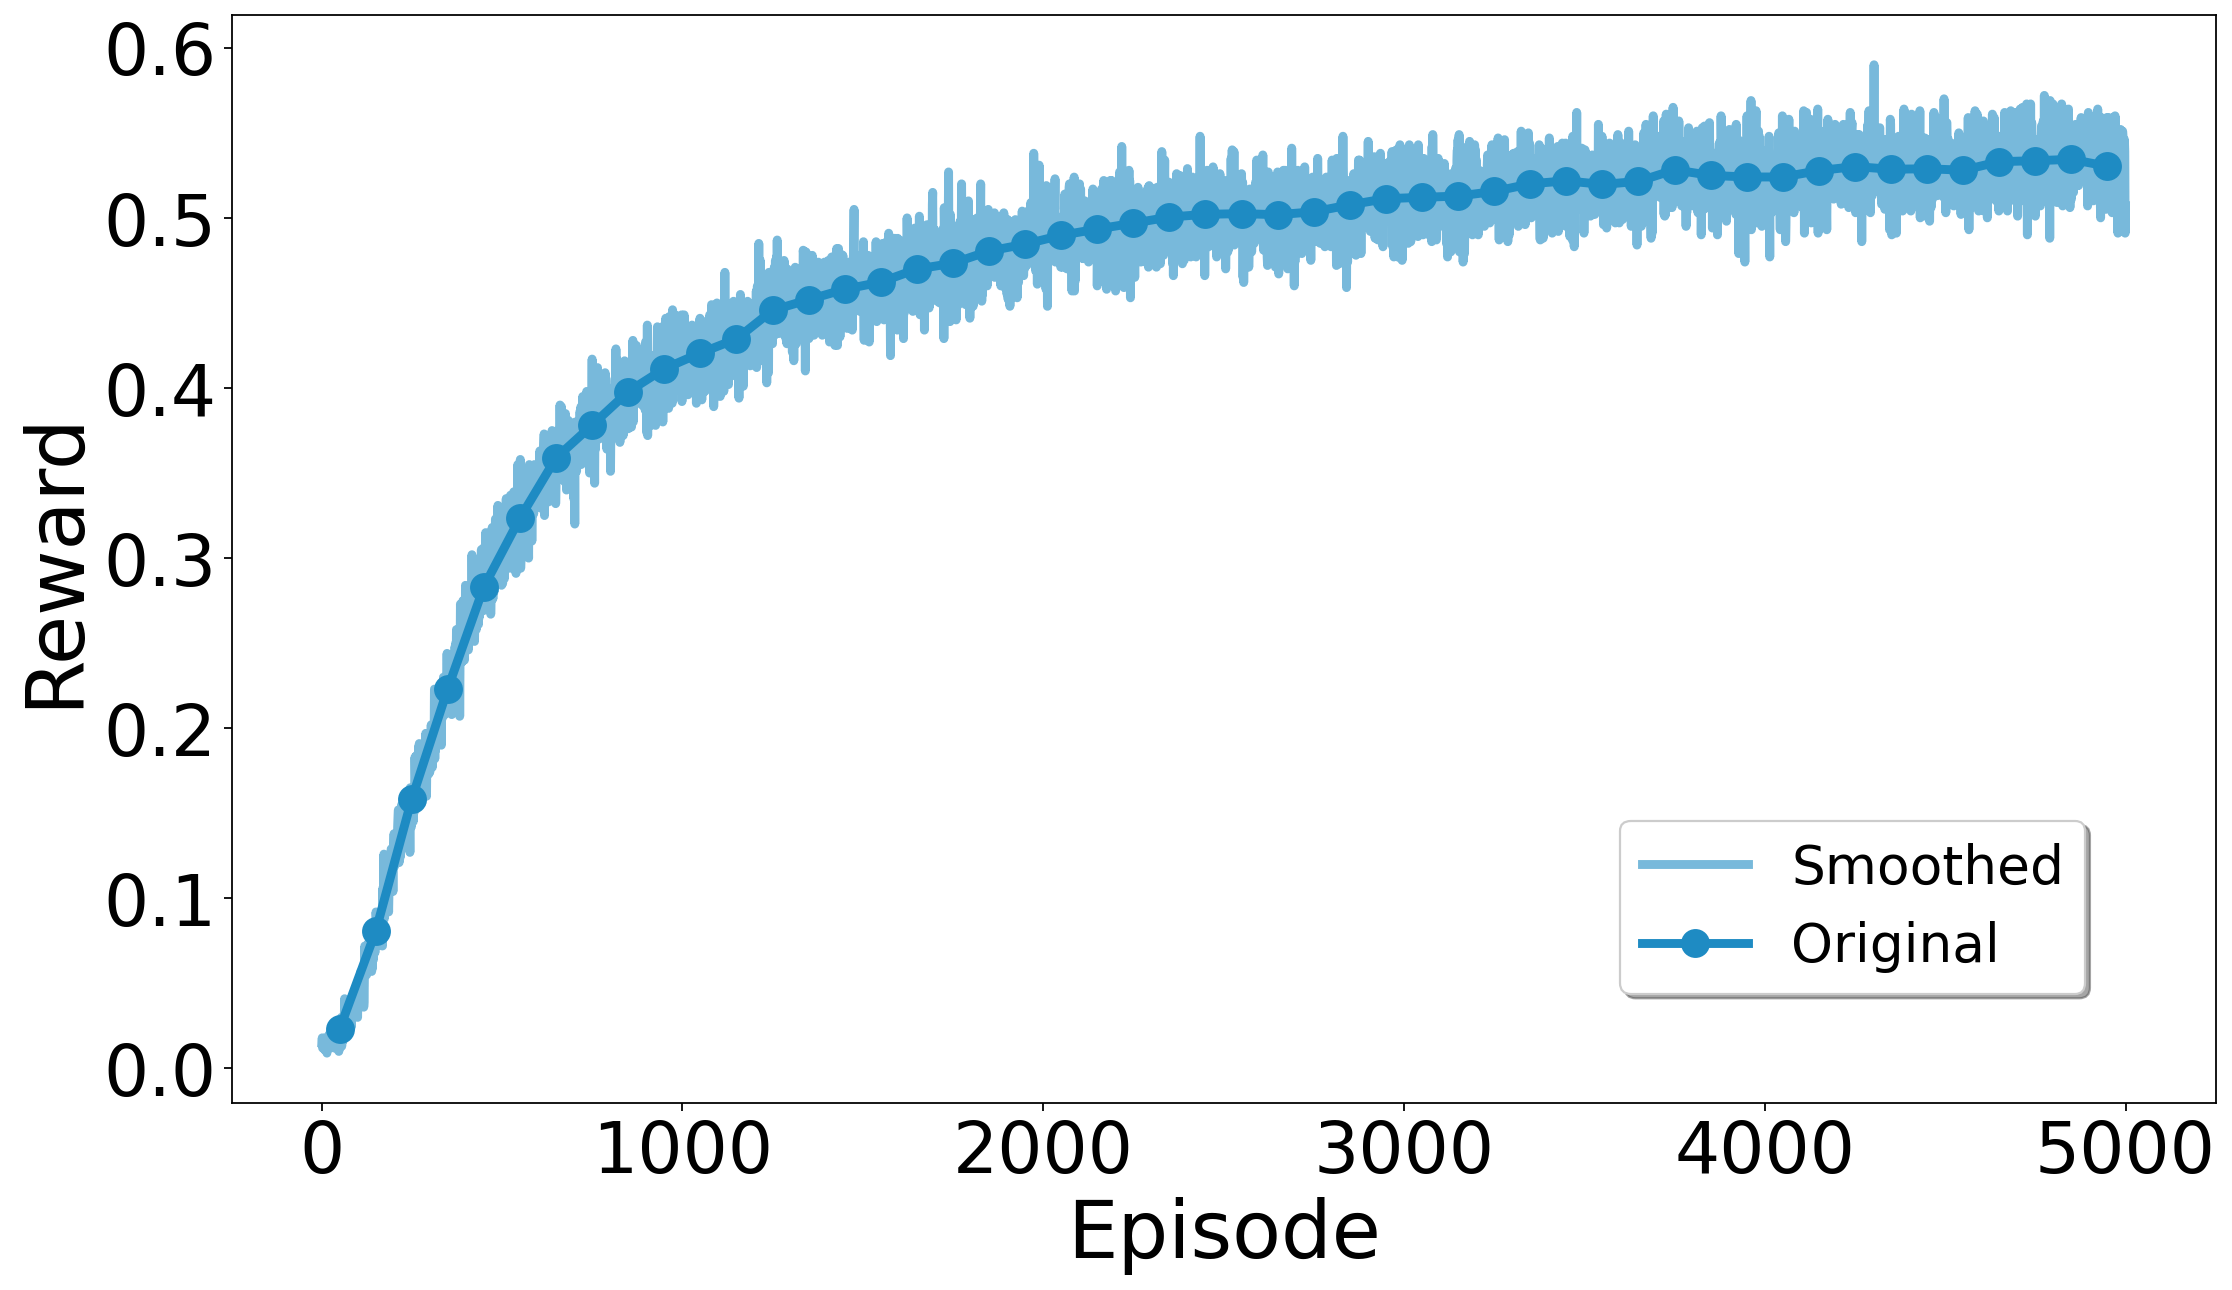
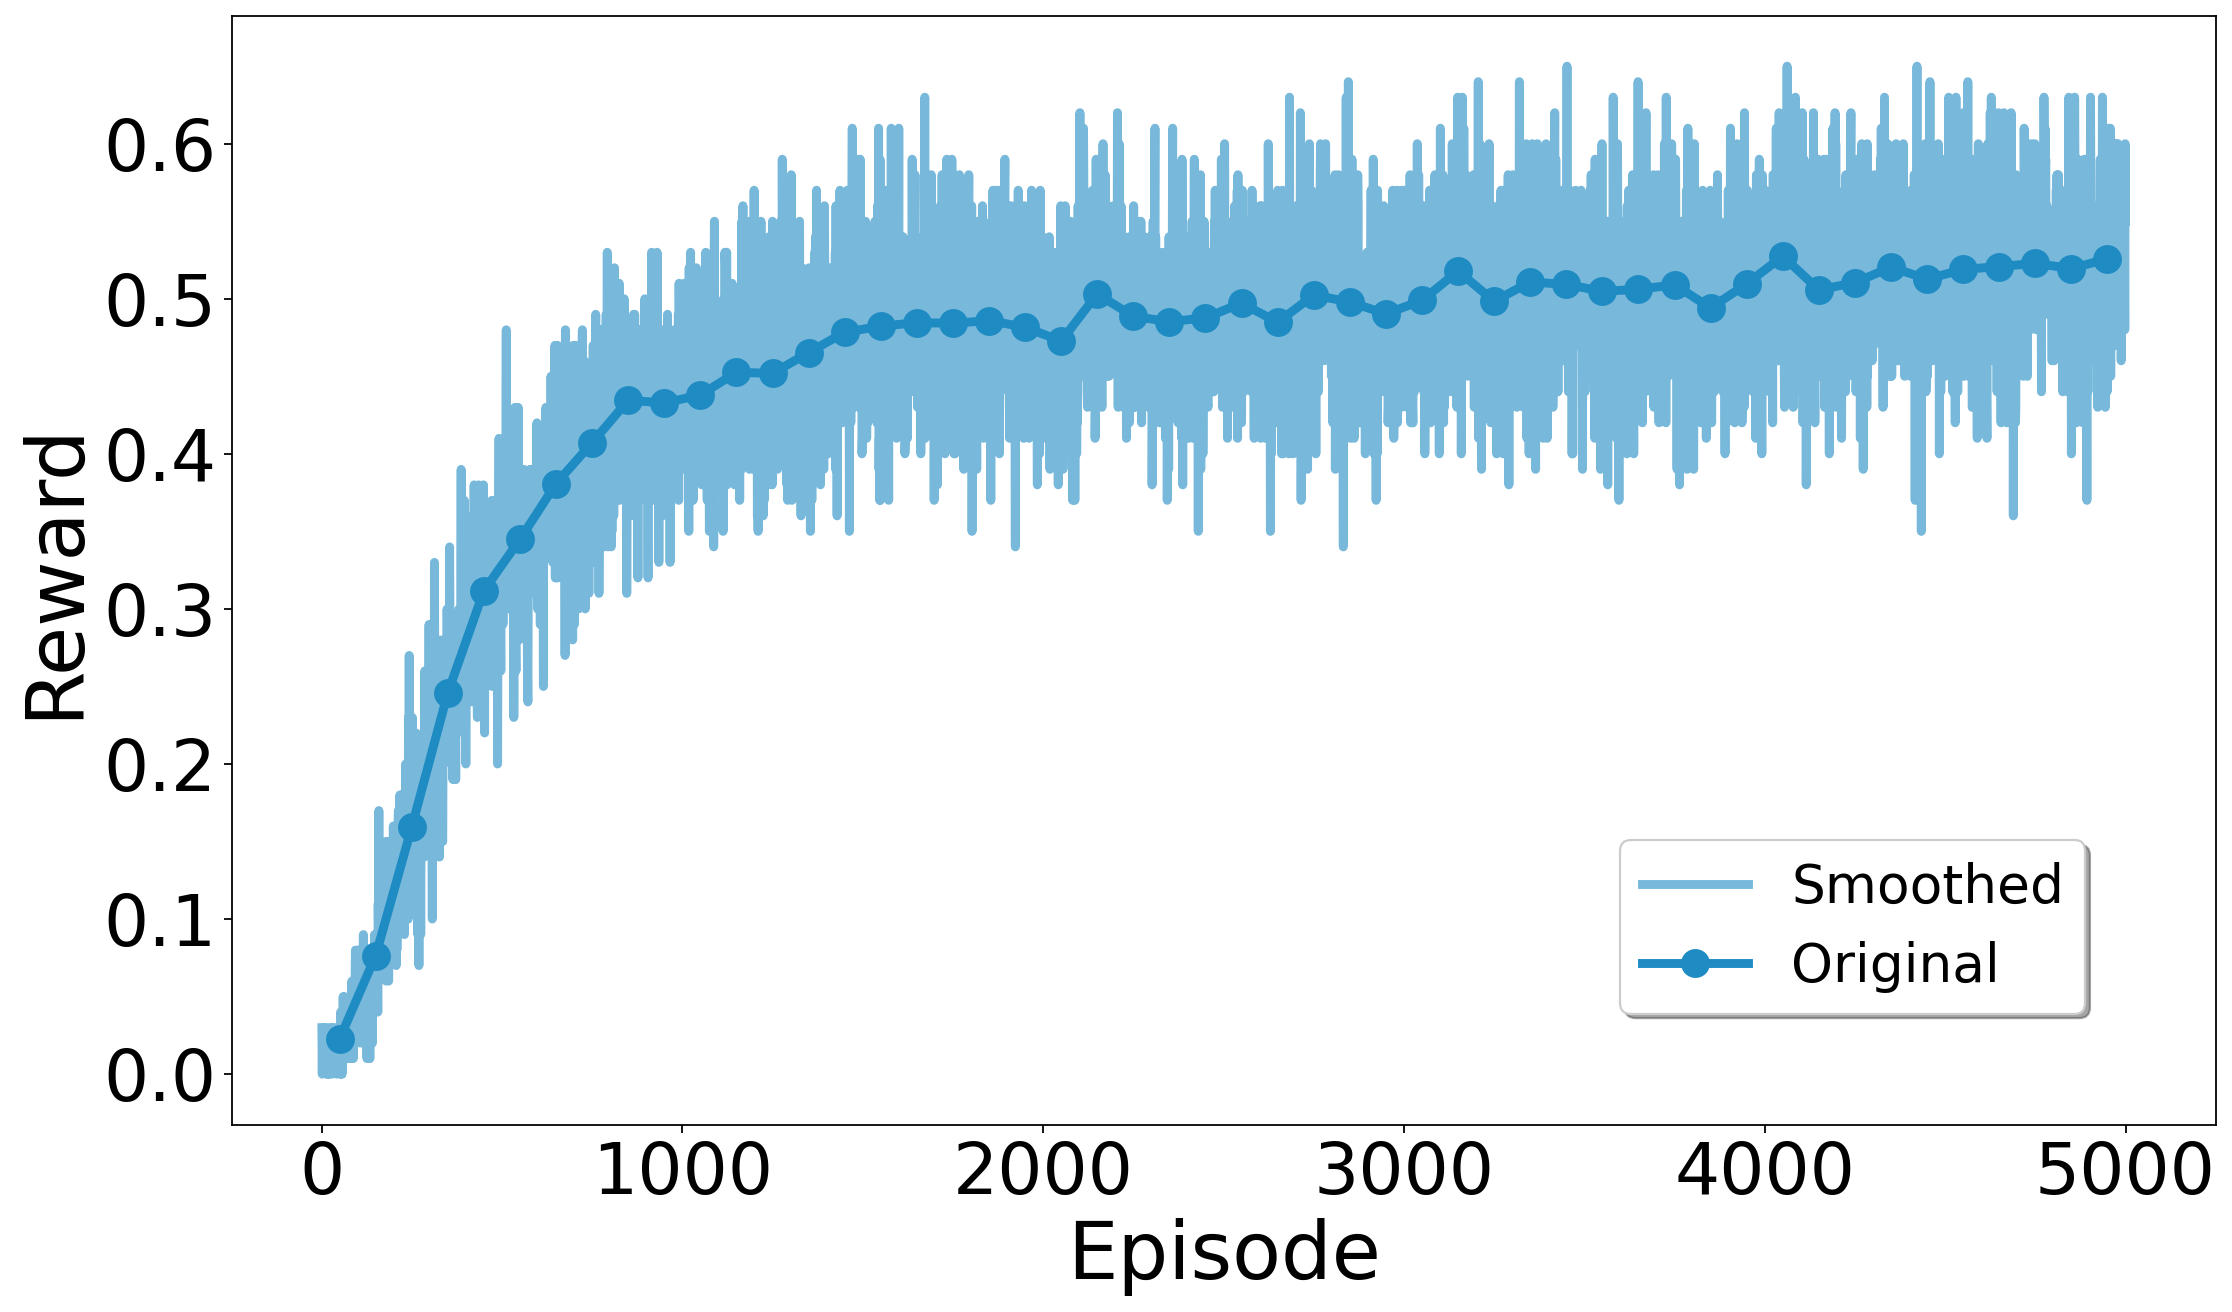
Adds README.

diff --git a/plot.py b/plot.py
@@ -1,0 +1,67 @@
+import argparse
+import pickle
+from pathlib import Path
+
+import matplotlib
+import matplotlib.pyplot as plt
+import numpy as np
+
+
+matplotlib.rcParams['pdf.fonttype'] = 42
+matplotlib.rcParams['ps.fonttype'] = 42
+
+
+COLOR = "#1e8bc3"
+MARK_EVERY = (0, 1)
+MARKER_SIZE = 12.0
+LINE_WIDTH = 4.0
+FONT_SIZE = 36.0
+FONT_SIZE_TICK = 32.0
+FIG_SIZE = (16,9)
+DPI = 160
+GRID = False
+FONT_WEIGHT = "normal"
+SMOOTH_INTERVAL = 100
+
+
+# For parsing command line arguments
+parser = argparse.ArgumentParser()
+parser.add_argument('experiment_name', type=str)
+args = parser.parse_args()
+
+
+# Load the results
+results = None
+path = "./results/{:s}/results.pkl".format(args.experiment_name)
+with open(path, "rb") as f:
+    results = pickle.load(f)
+
+
+episode_reward_2darray = results["episode_reward_2darray"]
+print("episode_reward_2darray.shape:", episode_reward_2darray.shape)
+mean_episode_reward_array = np.mean(episode_reward_2darray, axis=0)
+smooth_mean_episode_reward_array = np.mean(mean_episode_reward_array.reshape(-1, SMOOTH_INTERVAL), axis=1)
+
+
+# Plot the reward list
+Path("./results/{:s}/figures".format(args.experiment_name)).mkdir(parents=True, exist_ok=True)
+fig, ax = plt.subplots(figsize=FIG_SIZE, dpi=DPI)
+plt.setp(ax.get_xticklabels(), fontsize=FONT_SIZE_TICK, fontweight=FONT_WEIGHT)
+plt.setp(ax.get_yticklabels(), fontsize=FONT_SIZE_TICK, fontweight=FONT_WEIGHT)
+ax.yaxis.get_offset_text().set_fontsize(20)
+ax.yaxis.get_offset_text().set_fontweight(FONT_WEIGHT)
+ax.xaxis.get_offset_text().set_fontsize(20)
+ax.xaxis.get_offset_text().set_fontweight(FONT_WEIGHT)
+# ax.set_yticks([ -0.2, 0.0, 0.2 ])
+# plt.locator_params(axis='x', nbins=3)
+ax.plot(range(1, len(mean_episode_reward_array) + 1), mean_episode_reward_array, linestyle='-', color=COLOR, alpha=0.6, label="Smoothed", markersize=MARKER_SIZE, linewidth=LINE_WIDTH)
+ax.plot([ int((smooth_index + 0.5) * SMOOTH_INTERVAL) for smooth_index in range(len(smooth_mean_episode_reward_array)) ], smooth_mean_episode_reward_array, 'o', markevery=MARK_EVERY, linestyle='-', color=COLOR, label="Original", markersize=MARKER_SIZE, linewidth=LINE_WIDTH)
+# ax.legend(shadow=True, loc=(0.35, 0.12), ncol=1, fontsize=24.0)
+ax.legend(shadow=True, loc=(0.70, 0.10), fontsize=24.0)
+plt.grid(GRID)
+# plt.ticklabel_format(style='sci', axis='x', scilimits=(0, 0))
+ax.set_xlabel(r'Episode', fontsize=FONT_SIZE, fontweight=FONT_WEIGHT)
+ax.set_ylabel(r'Reward', fontsize=FONT_SIZE, fontweight=FONT_WEIGHT)
+# Save the figure
+fig.savefig('./results/{:s}/figures/{:s}.pdf'.format(args.experiment_name, args.experiment_name), format='pdf', bbox_inches='tight')
+fig.savefig('./results/{:s}/figures/{:s}.png'.format(args.experiment_name, args.experiment_name), format='png', bbox_inches='tight')

diff --git a/run_q_learning.py b/run_q_learning.py
@@ -23,7 +23,7 @@ ray.init(dashboard_host="0.0.0.0")
 
 
 # Hyperparameters
-REPETITIONS_COUNT = 1000
+REPETITIONS_COUNT = 100
 EPISODES_COUNT = 5000
 report = '100-ep Average: %.2f . Best 100-ep Average: %.2f . Total Average: %.2f (Episode %d)'
 

diff --git a/README.md b/README.md
@@ -46,7 +46,22 @@ References:
 
 <img src="./figure/q_learning_discrete_case.png" width="700">
 
-`python q_learning_agent.py`
+### 4.1 运行单次
+
+```shell
+$ python q_learning_agent.py
+```
+
+### 4.2 运行多次取平均并画图
+
+```shell
+$ python run_q_learning.py
+$ python plot.py q_learning
+```
+
+Episode reward of Q-learning on FrozenLake-v0 (averaged over 100 repetitions)
+
+<img src="./results/q_learning/figures/q_learning.png" width="600">
 
 ## 5. Deep Q-Learning Agent for FrozenLake
 
